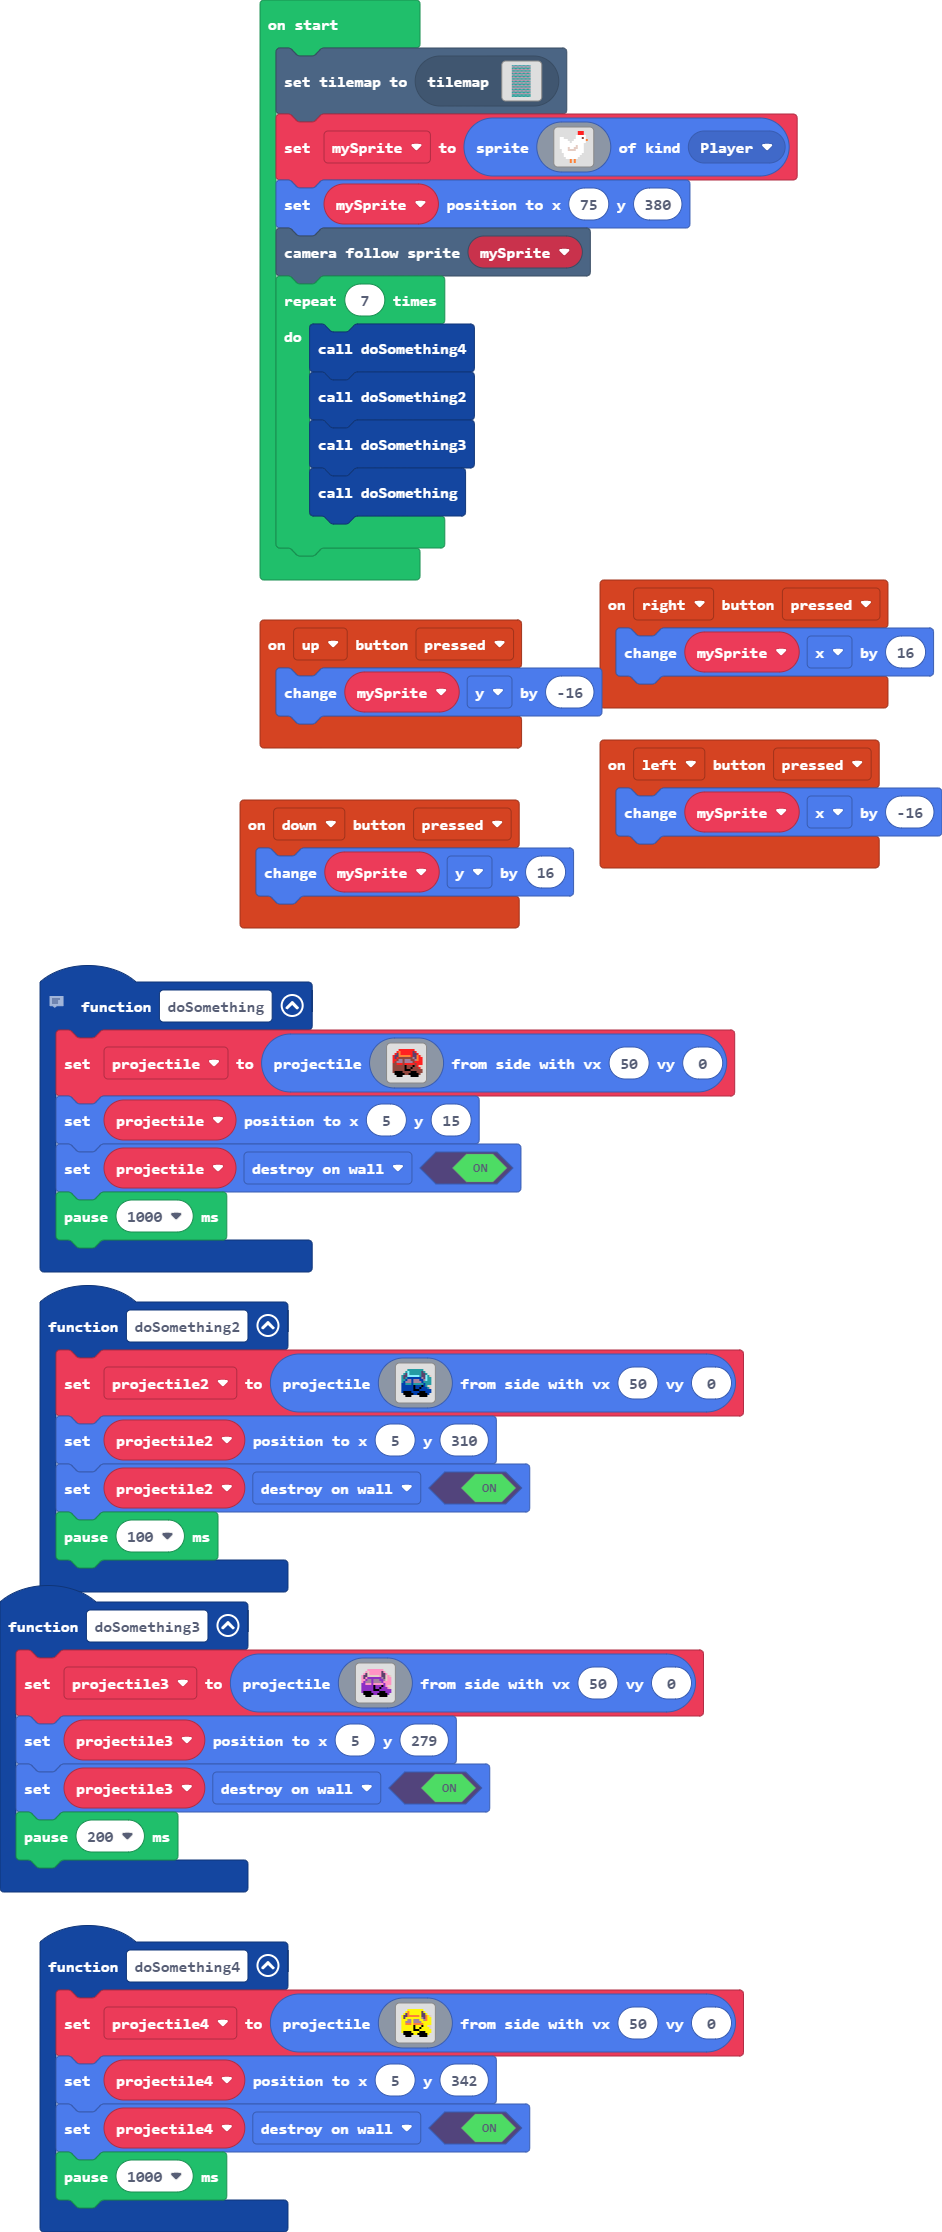
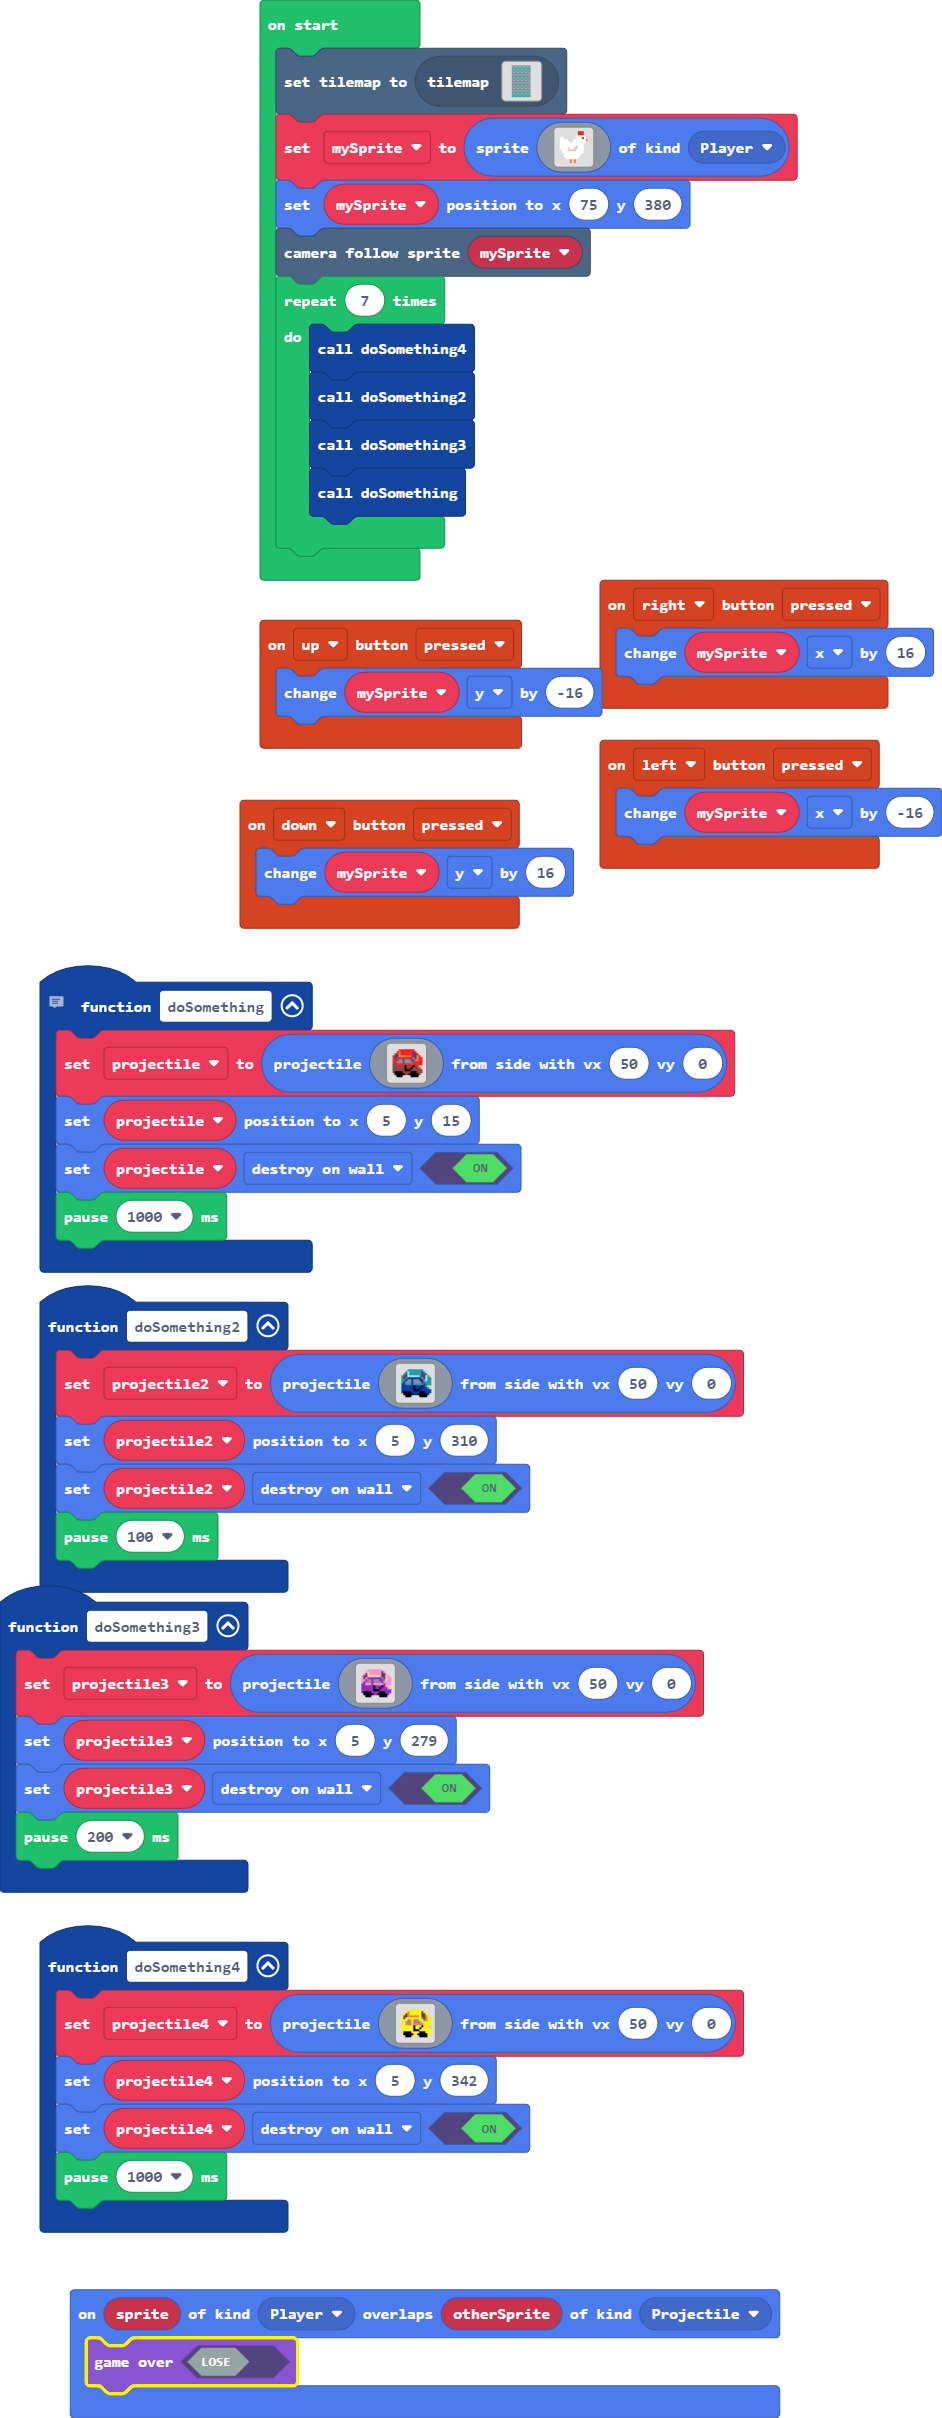
Update main.blocks, main.ts

diff --git a/main.ts b/main.ts
@@ -30,6 +30,9 @@ controller.left.onEvent(ControllerButtonEvent.Pressed, function () {
 controller.right.onEvent(ControllerButtonEvent.Pressed, function () {
     mySprite.x += 16
 })
+sprites.onOverlap(SpriteKind.Player, SpriteKind.Projectile, function (sprite, otherSprite) {
+    game.gameOver(false)
+})
 // This functions loads projectiles of red car
 function doSomething () {
     projectile = sprites.createProjectileFromSide(img`
